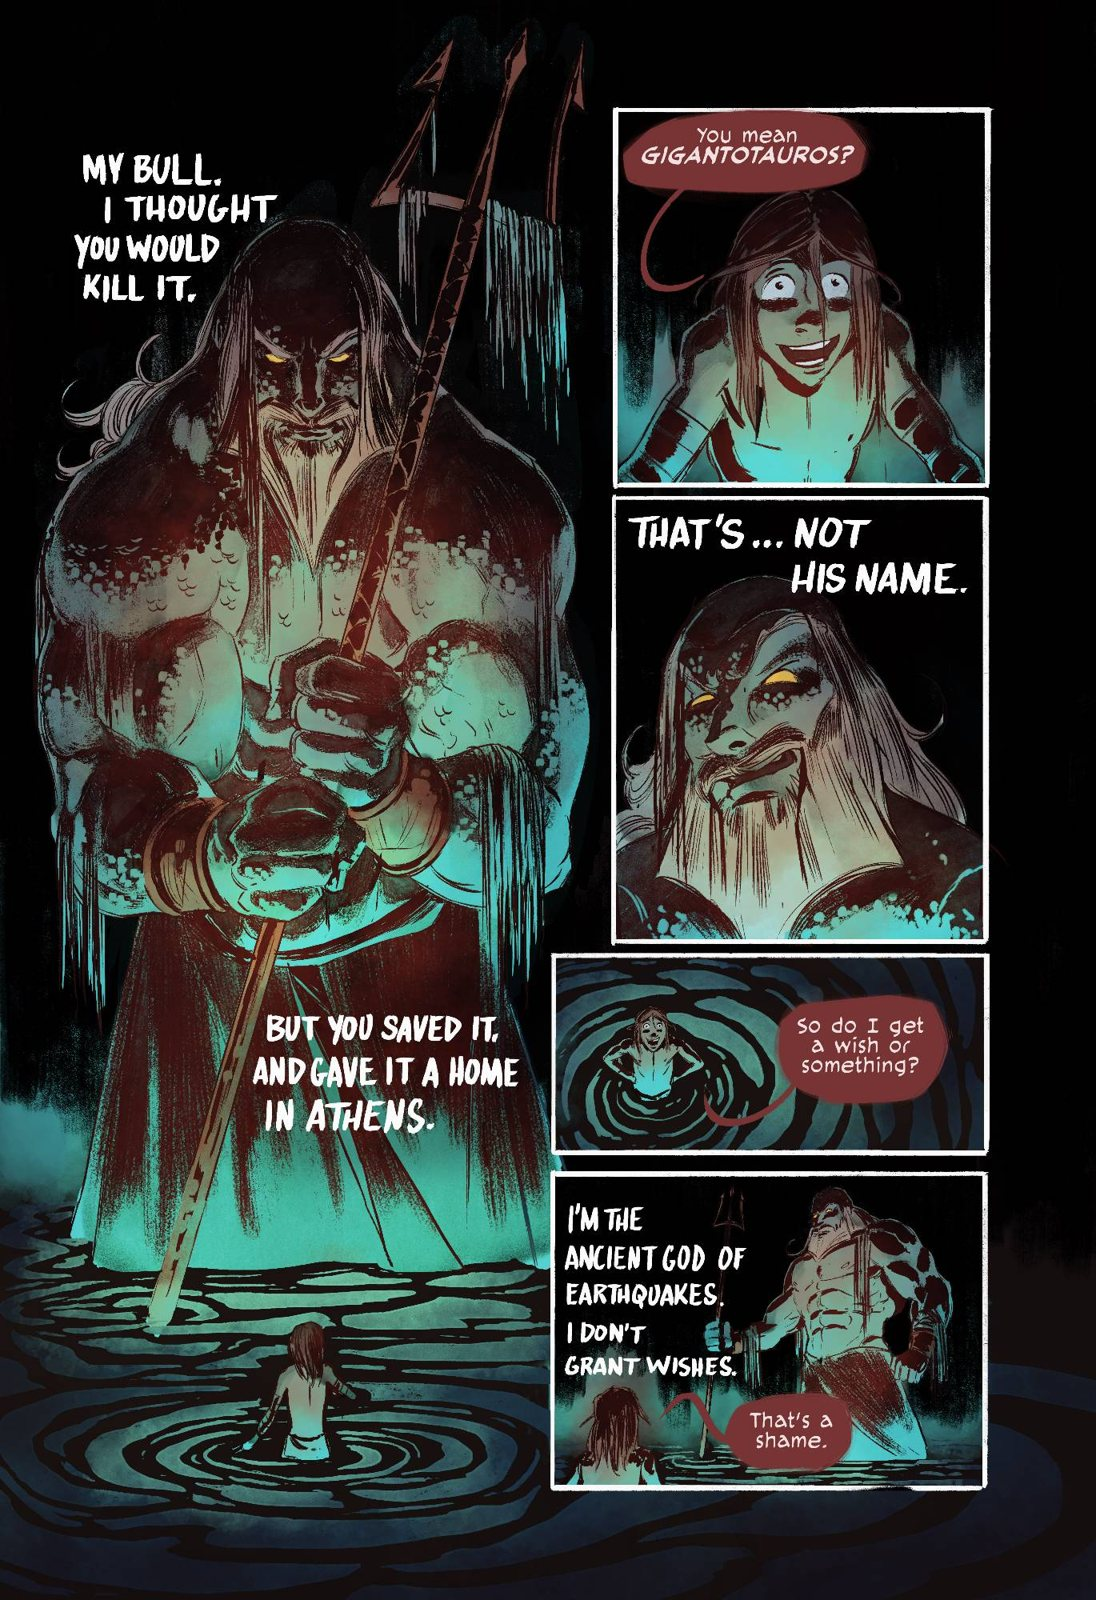
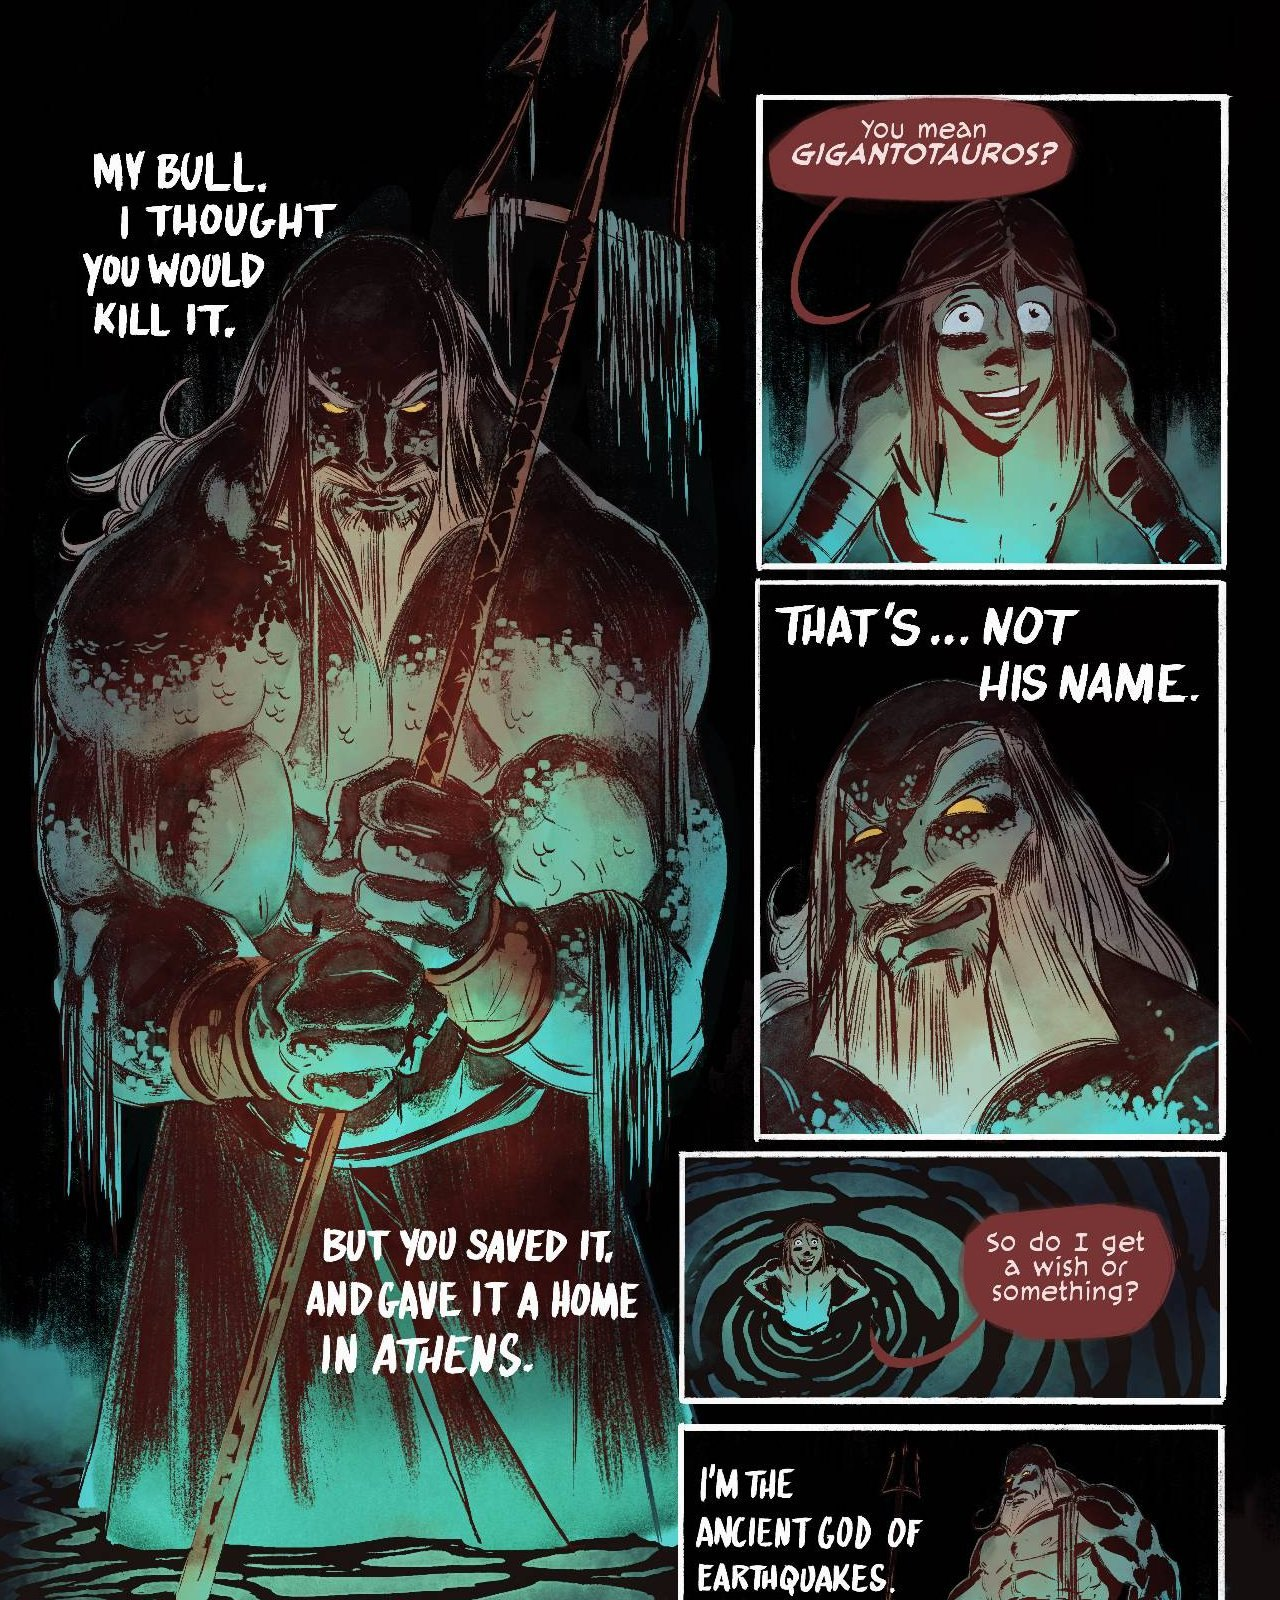
Home hero: crop the Poseidon page so the panel column sits centered
Claude-Session: https://claude.ai/code/session_01VYfdoJxwRUJwwJxSWrbeG3

diff --git a/src/data/site.ts b/src/data/site.ts
@@ -139,7 +139,7 @@ const prod = (f: string, alt: string) => img(`/images/products/${f}.jpg`, alt);
 const art = (s: string) => artwork.find((x) => x.slug === s)!;
 const IDW = '/images/projects/in-desert-and-wilderness/';
 const THESEUS_PAGES = { src: '/images/projects/theseus/pages-vertical.jpg', alt: 'Theseus comic pages', w: 1000, h: 1500 };
-const THESEUS_POSEIDON = { src: '/images/projects/theseus/poseidon-page.jpg', alt: 'Theseus page: Poseidon', w: 1096, h: 1600 };
+const THESEUS_POSEIDON = { src: '/images/projects/theseus/poseidon-page.jpg', alt: 'Theseus page: Poseidon', w: 1280, h: 1600 };
 const THESEUS_SPREAD = { src: '/images/projects/theseus/pages-spread.jpg', alt: 'Theseus comic spread', w: 2000, h: 1333 };
 
 
